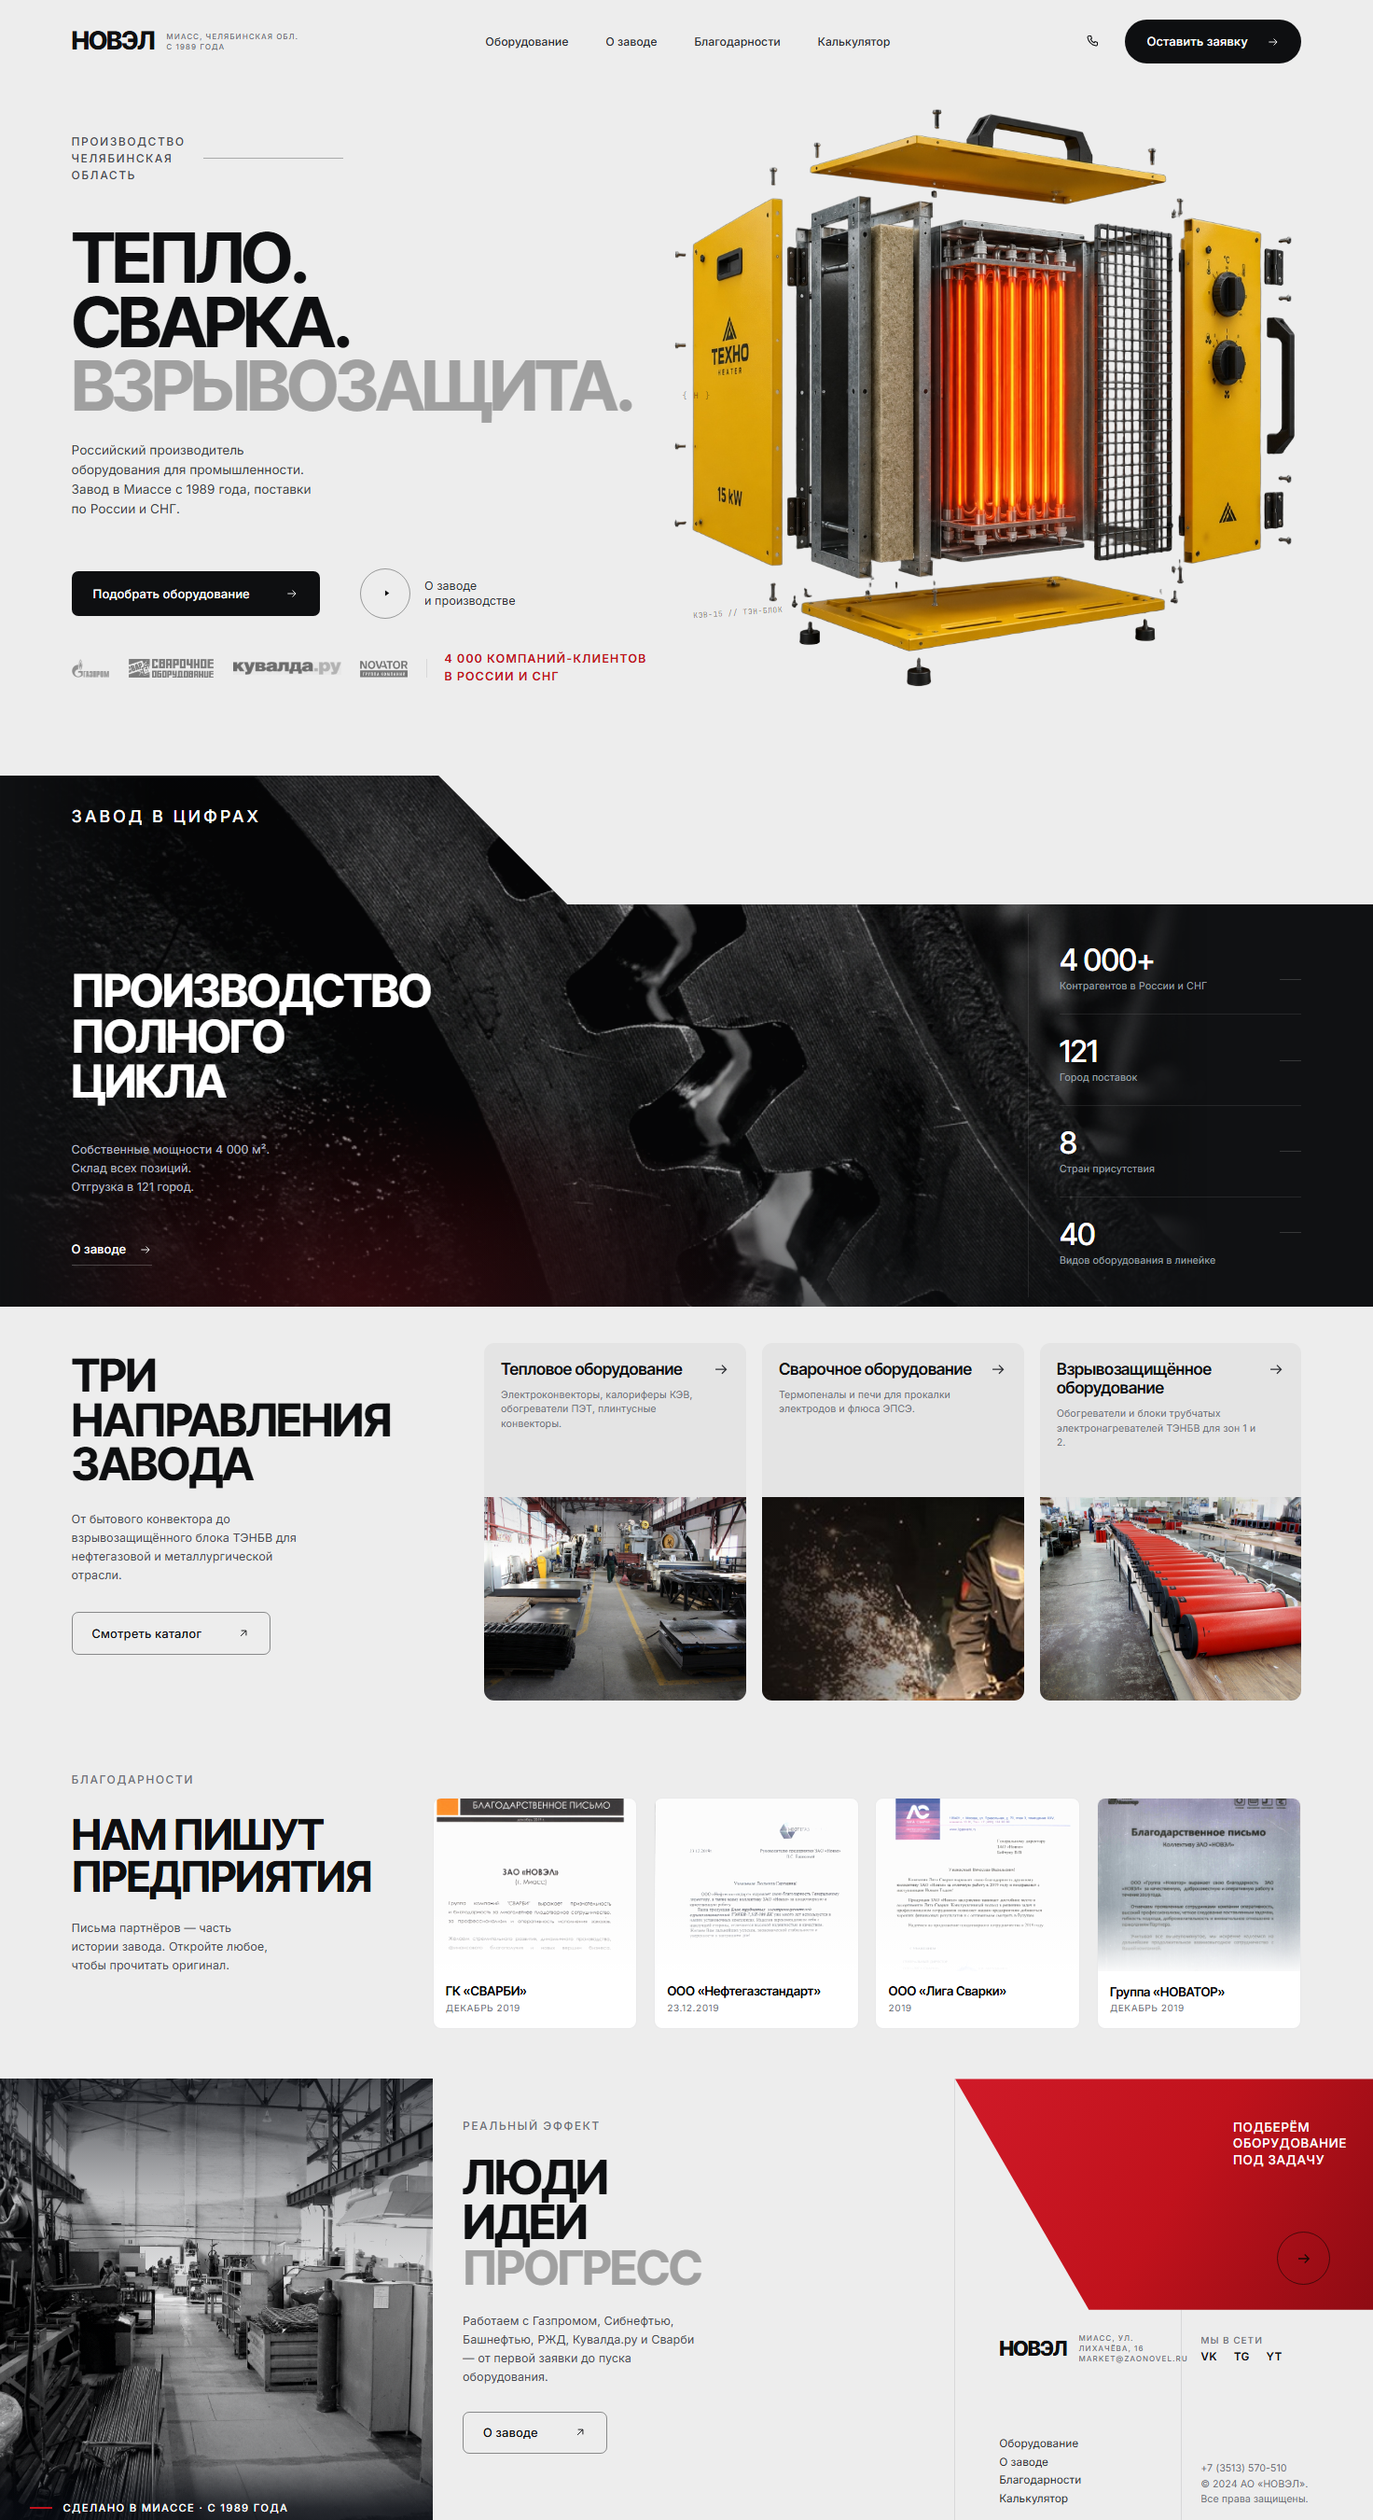
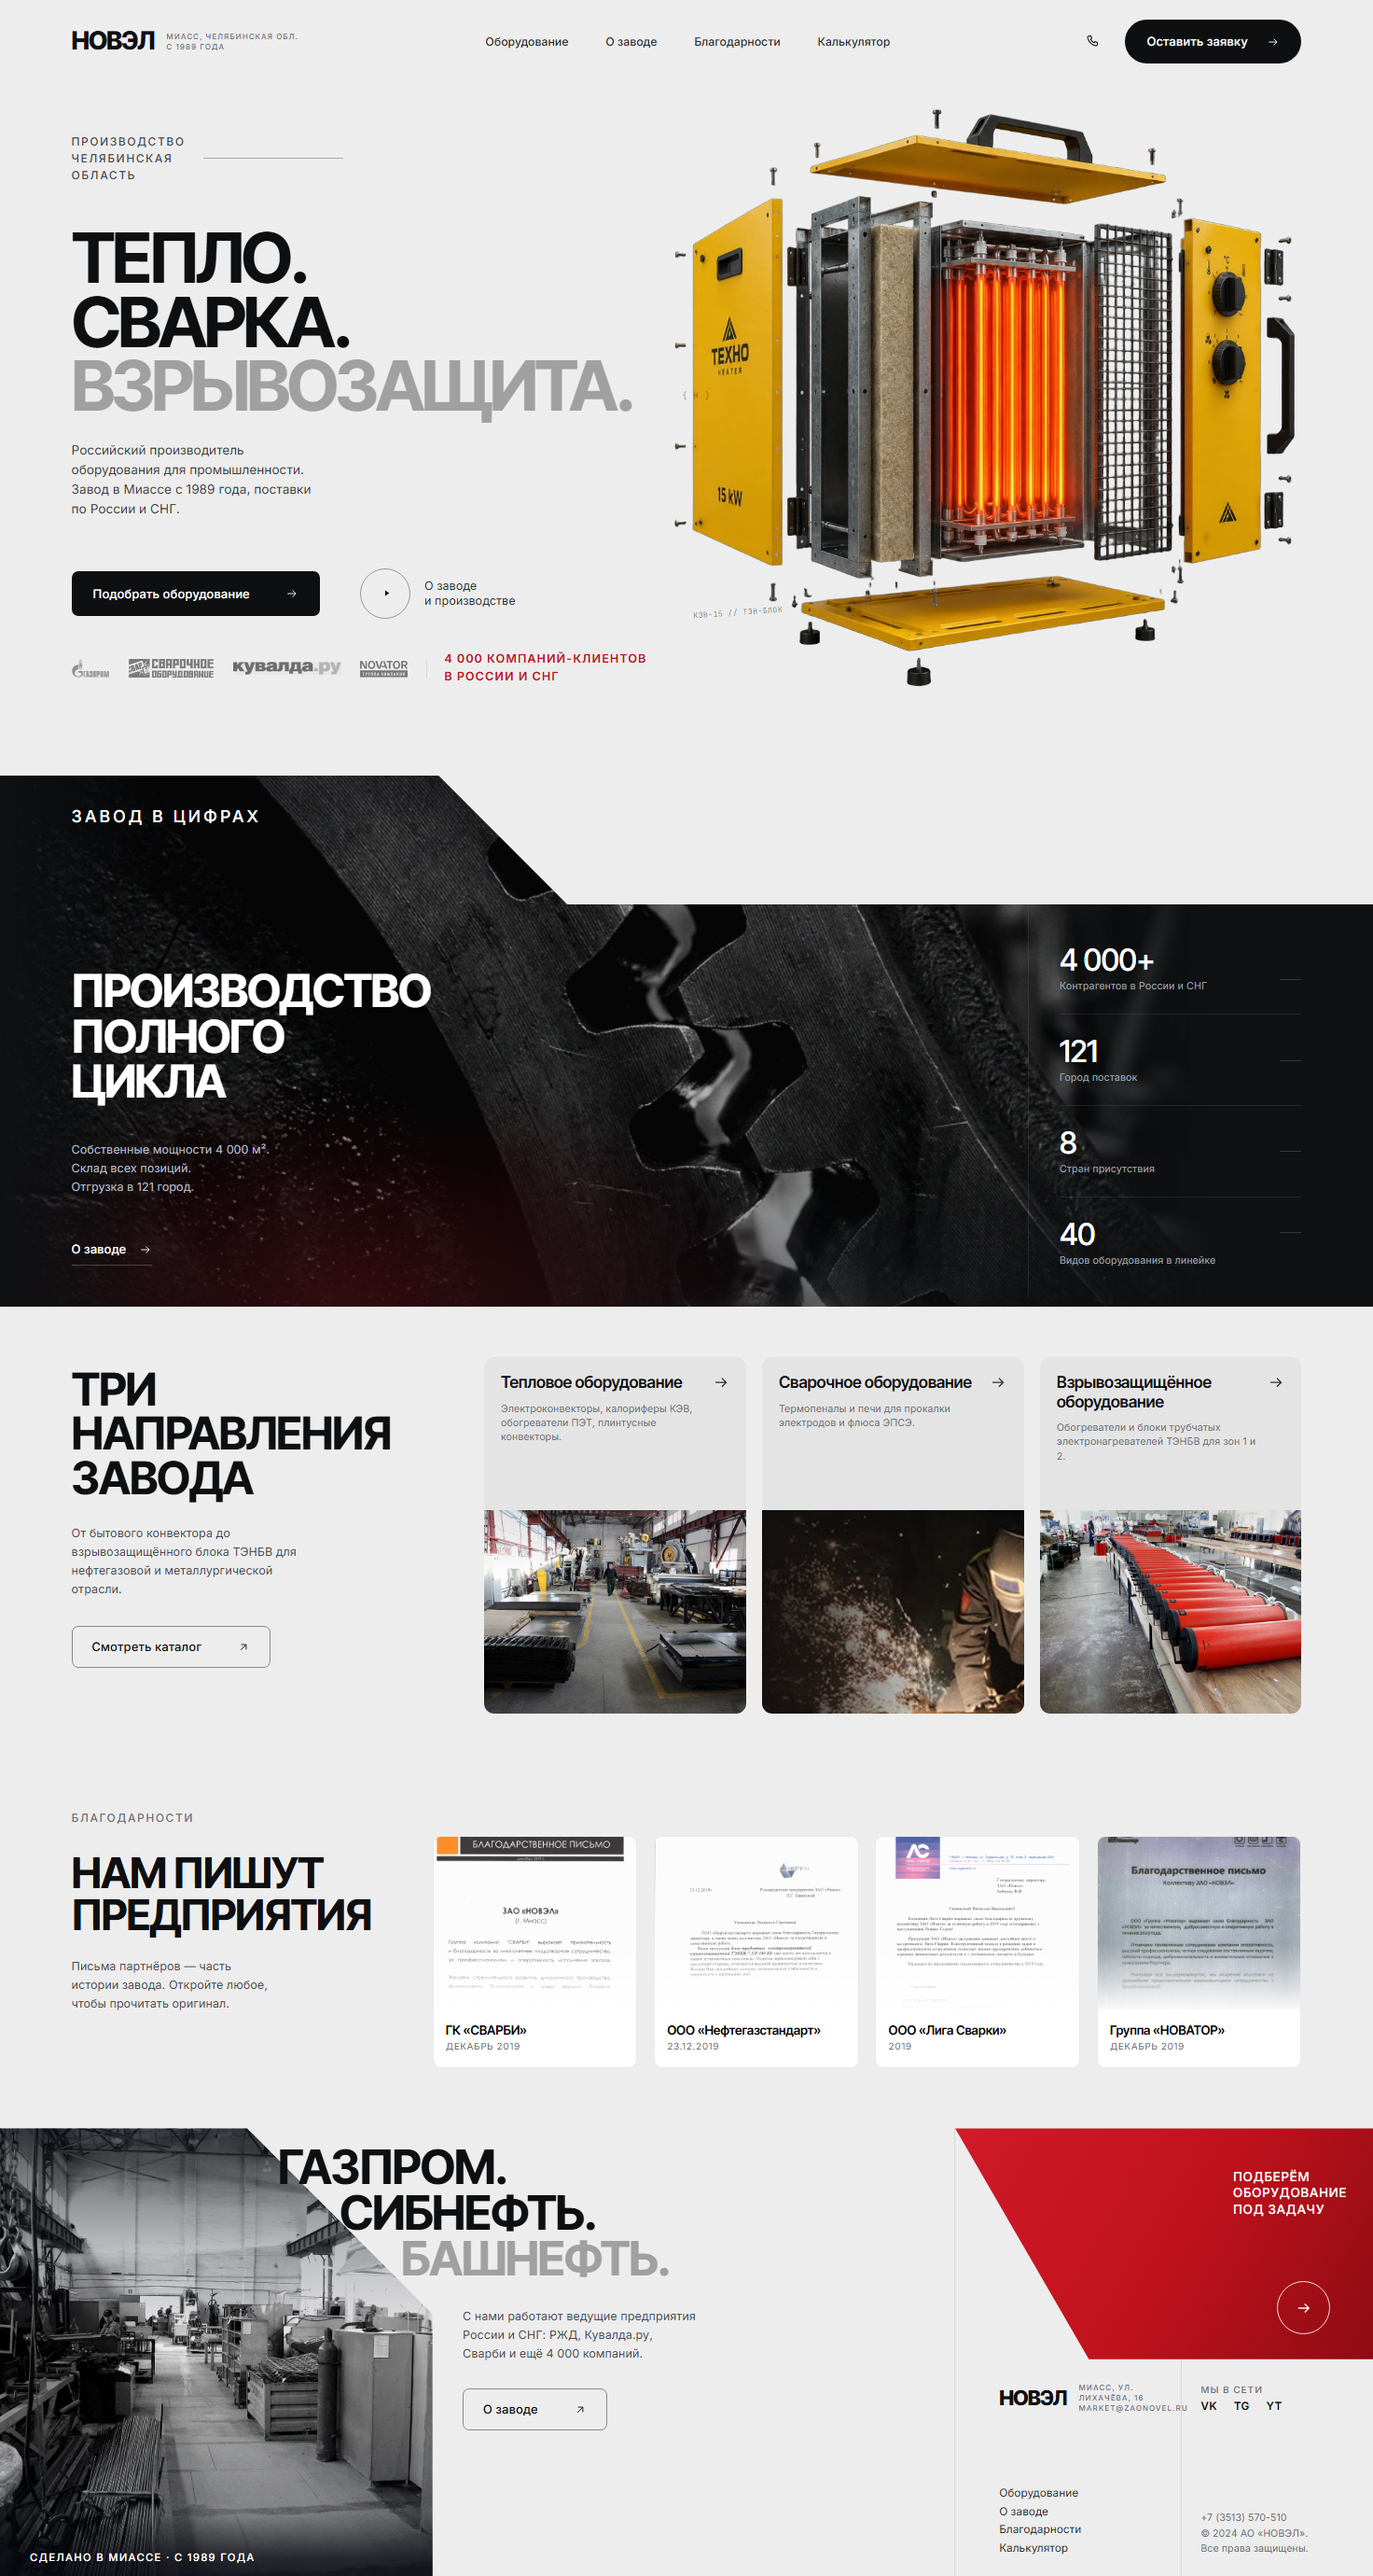
Финальный блок: вырезы в фото, заголовок-лесенка, новый контент; больше воздуха между секциями
- отступы между блоками увеличены (мобильные 56–96 px, десктоп 34–70 px)
- финальный блок: убран надзаголовок «Реальный эффект», заголовок заменён на
  «Газпром. / Сибнефть. / Башнефть.» и идёт лесенкой под 45°
- десктоп: вырез в правом верхнем углу фото, строки заголовка заходят в него
- мобильный: вырез в левом нижнем углу фото, заголовок в вырезе, ниже текст слева
  и красная панель справа (со своим срезом); подпись фото переехала наверх
- подвал на мобильных — две колонки рядом
- кнопка-стрелка на красной панели белая всегда (hover — белая заливка)
- убрана красная черточка у подписи «Сделано в Миассе»

diff --git a/assets/css/index.css b/assets/css/index.css
@@ -660,7 +660,7 @@ body.page {
    ============================================================ */
 .sol {
   background: var(--paper);
-  padding-block: clamp(8px, 1vw, 15px) clamp(20px, 2.2vw, 34px);
+  padding-block: clamp(16px, 2vw, 30px) clamp(34px, 3.4vw, 54px);
 }
 
 .sol__grid {
@@ -814,7 +814,7 @@ body.page {
 .rev {
   position: relative;
   background: var(--paper);
-  padding-block: clamp(26px, 3vw, 46px) clamp(30px, 3.6vw, 56px);
+  padding-block: clamp(34px, 3.6vw, 56px) clamp(44px, 4.4vw, 70px);
 }
 
 .rev__grid {
@@ -1009,11 +1009,19 @@ body.page {
 
 /* — фото-панель — */
 .close__media {
+  --cut: clamp(110px, 13.5vw, 205px);
+
   position: relative;
   grid-column: 1;
   grid-row: 1;
   min-height: clamp(420px, 33vw, 500px);
-  overflow: hidden;
+  clip-path: polygon(
+    0 0,
+    calc(100% - var(--cut)) 0,
+    100% var(--cut),
+    100% 100%,
+    0 100%
+  );
 }
 
 .close__media img {
@@ -1051,25 +1059,23 @@ body.page {
   background: linear-gradient(180deg, transparent 0%, rgba(8, 11, 18, 0.72) 62%, rgba(8, 11, 18, 0.88) 100%);
 }
 
-.close__cap-mark {
-  flex: none;
-  width: clamp(16px, 1.6vw, 24px);
-  height: 2px;
-  background: var(--accent);
-}
-
 /* — CTA — */
 .close__cta {
+  position: relative;
+  z-index: 2;
   grid-column: 2;
   grid-row: 1;
-  padding: clamp(22px, 2.8vw, 44px) clamp(18px, 2.2vw, 34px) clamp(20px, 2.4vw, 38px);
+  padding: clamp(10px, 1.2vw, 20px) clamp(18px, 2.2vw, 34px) clamp(20px, 2.4vw, 38px);
   display: flex;
   flex-direction: column;
   align-items: flex-start;
 }
 
 .close__title {
-  margin-top: clamp(12px, 1.5vw, 24px);
+  --step: clamp(46px, 4.6vw, 66px);
+
+  margin-top: 0;
+  margin-left: calc(-1 * var(--step) * 3);
   font-family: var(--f-display);
   font-weight: 700;
   font-size: clamp(28px, 3.45vw, 53px);
@@ -1078,8 +1084,16 @@ body.page {
   text-transform: uppercase;
 }
 
+.close__title > span {
+  display: block;
+}
+
+/* строки идут лесенкой под 45°, как срез фотографии */
+.close__title-l2 { margin-left: var(--step); }
+.close__title-l3 { margin-left: calc(var(--step) * 2); }
+
 .close__lead {
-  margin-top: clamp(12px, 1.5vw, 24px);
+  margin-top: clamp(16px, 1.9vw, 30px);
   max-width: 32ch;
   font-size: clamp(11.5px, 0.85vw, 13px);
   line-height: 1.6;
@@ -1129,8 +1143,9 @@ body.page {
   height: clamp(44px, 3.9vw, 58px);
   margin-right: clamp(0px, 1.2vw, 18px);
   border-radius: 50%;
-  border: 1px solid rgba(20, 8, 4, 0.65);
-  color: #1A0A05;
+  border: 1px solid rgba(255, 255, 255, 0.85);
+  color: #fff;
+  background: transparent;
   display: grid;
   place-items: center;
   transition: background-color 0.3s var(--ease), color 0.3s var(--ease), border-color 0.3s var(--ease);
@@ -1145,9 +1160,9 @@ body.page {
 }
 
 .close__red-btn:hover {
-  background: var(--ink);
-  border-color: var(--ink);
-  color: #fff;
+  background: #fff;
+  border-color: #fff;
+  color: var(--accent);
 }
 
 .close__red-btn:hover svg {
@@ -1418,6 +1433,10 @@ body.page {
     display: none;
   }
 
+  .hero {
+    padding-bottom: clamp(40px, 9vw, 76px);
+  }
+
   .hero__inner {
     grid-template-columns: 1fr;
     gap: clamp(20px, 4vw, 40px);
@@ -1454,7 +1473,7 @@ body.page {
   }
 
   .sol {
-    padding-block: clamp(40px, 7vw, 64px) clamp(34px, 6vw, 56px);
+    padding-block: clamp(64px, 11vw, 96px) clamp(58px, 10vw, 88px);
   }
 
   .sol__grid {
@@ -1501,7 +1520,7 @@ body.page {
   }
 
   .rev {
-    padding-block: clamp(26px, 4vw, 40px) clamp(34px, 6vw, 56px);
+    padding-block: clamp(58px, 10vw, 88px) clamp(56px, 10vw, 84px);
   }
 
   .rev__grid {
@@ -1518,74 +1537,104 @@ body.page {
   }
 
   .close__grid {
-    grid-template-columns: 1fr;
+    grid-template-columns: minmax(0, 1fr) minmax(0, 1fr);
+    grid-template-areas:
+      "media media"
+      "cta   red"
+      "foot  foot";
+    column-gap: clamp(10px, 2.6vw, 18px);
   }
 
   .close__media {
-    grid-column: 1;
-    grid-row: 1;
-    min-height: 320px;
+    grid-area: media;
+    min-height: clamp(250px, 56vw, 340px);
+    clip-path: polygon(0 0, 100% 0, 100% 100%, 72% 100%, 0 62%);
+  }
+
+  /* подпись уходит наверх — снизу её срезал бы вырез */
+  .close__cap {
+    top: 0;
+    bottom: auto;
+    padding: clamp(14px, 3.4vw, 20px) clamp(16px, 4vw, 22px) clamp(28px, 7vw, 46px);
+    background: linear-gradient(180deg, rgba(8, 11, 18, 0.8) 0%, rgba(8, 11, 18, 0.34) 55%, transparent 100%);
   }
 
   .close__cta {
-    grid-column: 1;
-    grid-row: 2;
-    padding: 24px var(--pad) 26px;
+    grid-area: cta;
+    margin-top: calc(-1 * clamp(24px, 6.4vw, 40px));
+    padding: 0 clamp(4px, 1vw, 10px) clamp(18px, 4.4vw, 26px) var(--pad);
   }
 
   .close__title {
-    font-size: clamp(30px, 7.4vw, 44px);
+    font-size: clamp(24px, 6.2vw, 34px);
+    margin-left: 0;
+  }
+
+  .close__title-l2,
+  .close__title-l3 {
+    margin-left: 0;
+  }
+
+  .close__lead {
+    margin-top: clamp(12px, 3vw, 18px);
+    font-size: clamp(10.5px, 2.7vw, 12px);
   }
 
   .close__side {
-    grid-column: 1;
-    grid-row: 3;
-    border-left: 0;
-    border-top: 1px solid var(--line-soft);
+    display: contents;
   }
 
   .close__red {
-    clip-path: none;
+    grid-area: red;
+    align-self: start;
     flex-basis: auto;
-    flex-direction: row;
-    align-items: center;
+    flex-direction: column;
+    align-items: flex-start;
     justify-content: space-between;
-    gap: 16px;
-    padding: 20px var(--pad);
+    gap: clamp(14px, 3.4vw, 22px);
+    min-height: clamp(158px, 42vw, 210px);
+    padding: clamp(16px, 4vw, 22px) clamp(12px, 3.4vw, 18px);
+    clip-path: polygon(0 0, 100% 0, 100% 100%, 20% 100%, 0 80%);
   }
 
   .close__red-title {
-    font-size: 12px;
-    line-height: 1.35;
+    font-size: clamp(11px, 2.8vw, 13px);
+    line-height: 1.3;
     margin: 0;
   }
 
   .close__red-btn {
-    margin-right: 0;
-    flex: none;
+    margin: 0;
+    align-self: flex-end;
   }
 
   .foot {
-    grid-template-columns: 1fr;
-    padding-left: 0;
+    grid-area: foot;
+    grid-template-columns: minmax(0, 1fr) minmax(0, 1fr);
+    padding: 0 var(--pad);
+    gap: 0;
+    min-height: 0;
   }
 
   .foot__brand {
-    flex-direction: row;
-    align-items: flex-end;
-    justify-content: space-between;
-    gap: 24px;
-    padding-inline: var(--pad);
+    flex-direction: column;
+    align-items: flex-start;
+    gap: 14px;
+    padding: clamp(16px, 4vw, 22px) clamp(10px, 2.6vw, 16px) clamp(16px, 4vw, 22px) 0;
+    border-top: 1px solid var(--line-soft);
   }
 
   .foot__side {
-    border-left: 0;
+    flex-direction: column;
+    align-items: flex-start;
+    gap: 12px;
+    padding: clamp(16px, 4vw, 22px) 0 clamp(16px, 4vw, 22px) clamp(10px, 2.6vw, 16px);
+    border-left: 1px solid var(--line-soft);
     border-top: 1px solid var(--line-soft);
-    flex-direction: row;
-    align-items: center;
-    justify-content: space-between;
-    gap: 18px;
-    padding-inline: var(--pad);
+  }
+
+  .foot__copy {
+    font-size: 10px;
   }
 
   .modal__form {

diff --git a/index.html b/index.html
@@ -305,22 +305,20 @@
         <figure class="close__media">
           <img src="assets/img/real/plant-5.jpg" alt="Производственный цех завода НОВЭЛ в Миассе" loading="lazy">
           <figcaption class="close__cap">
-            <span class="close__cap-mark" aria-hidden="true"></span>
             Сделано в Миассе · с 1989 года
           </figcaption>
         </figure>
 
         <div class="close__cta">
-          <p class="eyebrow">Реальный эффект</p>
-
           <h2 class="close__title" id="close-title">
-            Люди<br>идеи<br><span class="is-dim">прогресс</span>
+            <span class="close__title-l1">Газпром.</span>
+            <span class="close__title-l2">Сибнефть.</span>
+            <span class="close__title-l3 is-dim">Башнефть.</span>
           </h2>
 
           <p class="close__lead">
-            Работаем с Газпромом, Сибнефтью, Башнефтью,
-            РЖД, Кувалда.ру и Сварби — от первой заявки
-            до пуска оборудования.
+            С нами работают ведущие предприятия России и СНГ:
+            РЖД, Кувалда.ру, Сварби и ещё 4 000 компаний.
           </p>
 
           <a class="btn btn--outline" href="about.html">
